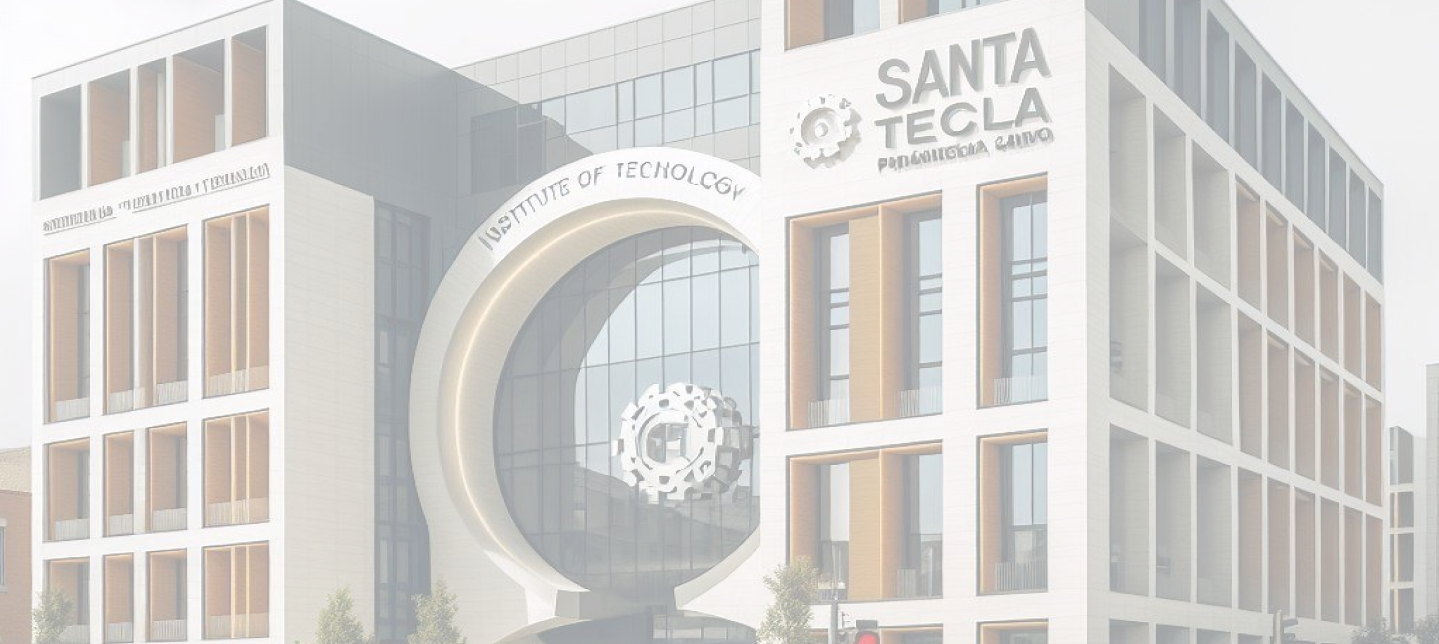
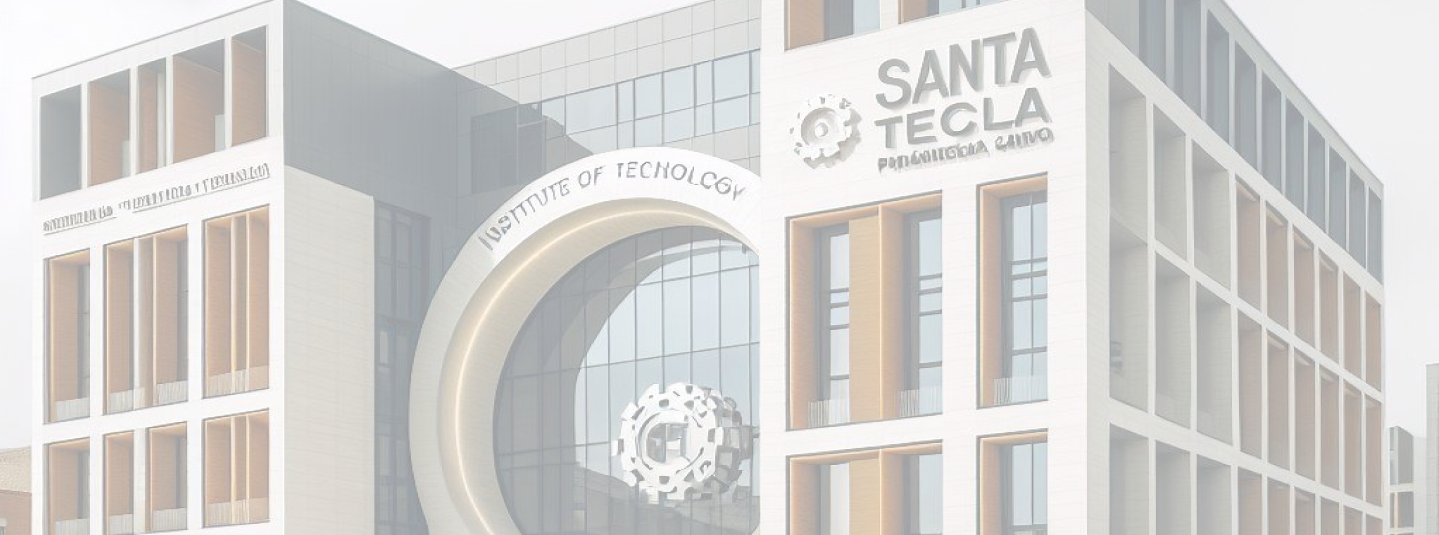
menu's image changed

diff --git a/src/components/Views/Menu/Menu.css b/src/components/Views/Menu/Menu.css
@@ -5,7 +5,7 @@
 
 .menuImg img {
   width: 100%;
-  height: 120vh;
+  height: 100%;
   opacity: 0.5;
 }
 
@@ -26,6 +26,8 @@
     align-items: center;
     padding: 20px;
     margin-right: 100px;
+    margin-top: 25px;
+    margin-bottom: 20px;
   }
 
   .groupButtons Button,
@@ -35,10 +37,10 @@
   }
 
   .groupButtons Button {
-    margin-bottom: 7px;
+    margin-bottom: 15px;
   }
 
   .menuImg img {
-    height: 50%;
+      content: url('img/insti-menuView-iphone.png')
   }
 }

diff --git a/src/components/Views/Menu/Menu.jsx b/src/components/Views/Menu/Menu.jsx
@@ -23,7 +23,7 @@ const Menu = () => {
       </div>
 
       <section className='menuImg'>
-          <img src="img/img-homeView.png" alt="santa-tecla" />
+          <img src="img/insti-menuView.png" alt="santa-tecla" />
       </section>
     </>
   )
